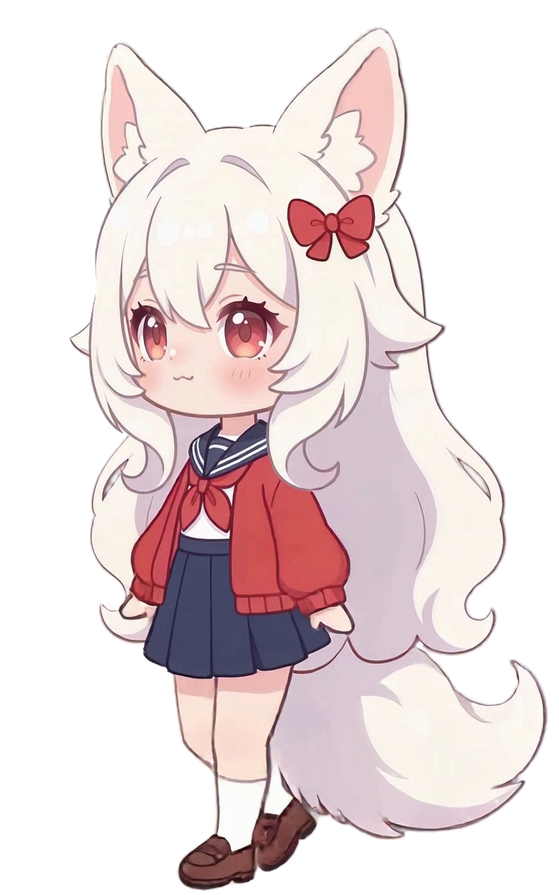
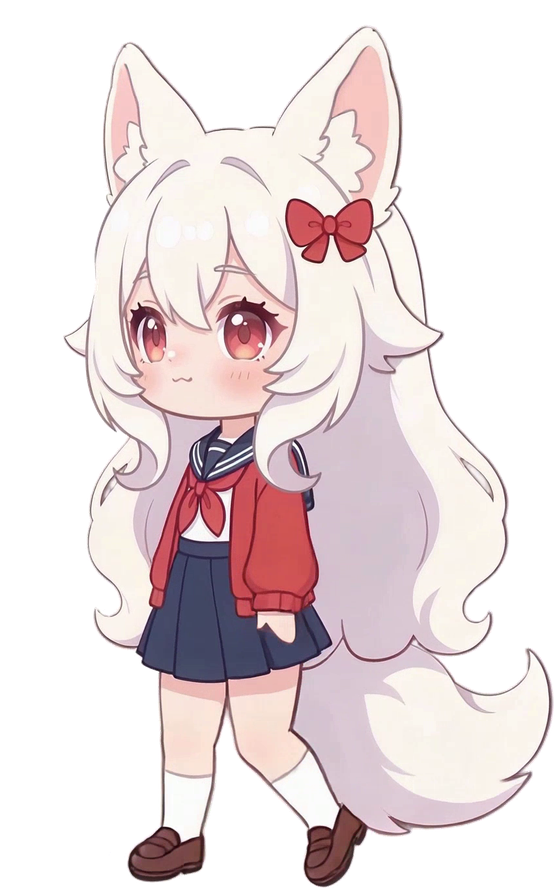
收紧walk_loop素材区间

diff --git a/scripts/build_feiling_walk_loop.py b/scripts/build_feiling_walk_loop.py
@@ -1,30 +1,13 @@
 from __future__ import annotations
 
 import json
-import math
 import shutil
 from pathlib import Path
 
 
-TARGET_FRAME_COUNT = 12
 SOURCE_SET_NAME = "selected_70_spread_fixed"
-
-
-def sample_indices(total_frames: int, target_frames: int) -> list[int]:
-    if total_frames < target_frames:
-        raise ValueError(
-            f"Not enough source frames to build walk loop: {total_frames} < {target_frames}"
-        )
-
-    step = total_frames / target_frames
-    sampled = [math.floor(index * step) for index in range(target_frames)]
-
-    if len(set(sampled)) != target_frames:
-        raise ValueError(
-            f"Sampling produced duplicate indices: total={total_frames}, target={target_frames}, sampled={sampled}"
-        )
-
-    return sampled
+WALK_LOOP_START_FRAME_1BASED = 32
+WALK_LOOP_END_FRAME_1BASED = 43
 
 
 def main() -> None:
@@ -53,7 +36,15 @@ def main() -> None:
 
     source_manifest = json.loads(source_manifest_path.read_text(encoding="utf-8"))
     source_frames = sorted(source_frames_dir.glob("*.png"))
-    sampled_indices = sample_indices(len(source_frames), TARGET_FRAME_COUNT)
+    selected_indices = list(
+        range(WALK_LOOP_START_FRAME_1BASED - 1, WALK_LOOP_END_FRAME_1BASED)
+    )
+    target_frame_count = len(selected_indices)
+
+    if selected_indices[-1] >= len(source_frames):
+        raise SystemExit(
+            f"Walk loop selection exceeds available frames: last={selected_indices[-1] + 1}, available={len(source_frames)}"
+        )
 
     target_dir.mkdir(parents=True, exist_ok=True)
     for existing in target_dir.glob("feiling_walk_loop_*.png"):
@@ -64,13 +55,14 @@ def main() -> None:
         f"source_manifest={source_manifest_path}",
         f"source_set={SOURCE_SET_NAME}",
         f"source_frame_count={len(source_frames)}",
-        f"target_frame_count={TARGET_FRAME_COUNT}",
-        "sampling_mode=uniform_spread_no_end_duplicate",
+        f"target_frame_count={target_frame_count}",
+        f"selection_range_1based={WALK_LOOP_START_FRAME_1BASED}-{WALK_LOOP_END_FRAME_1BASED}",
+        "selection_mode=contiguous_stable_walk_window",
     ]
 
     source_indices_1based = source_manifest.get("source_frame_indices_1based", [])
 
-    for output_index, source_index in enumerate(sampled_indices):
+    for output_index, source_index in enumerate(selected_indices):
         source_path = source_frames[source_index]
         out_path = target_dir / f"feiling_walk_loop_{output_index:03d}.png"
         shutil.copy2(source_path, out_path)
@@ -84,7 +76,7 @@ def main() -> None:
         manifest_lines.append(manifest_line)
 
     target_manifest_path.write_text("\n".join(manifest_lines), encoding="utf-8")
-    print(f"Built {TARGET_FRAME_COUNT} walk loop frames in {target_dir}")
+    print(f"Built {target_frame_count} walk loop frames in {target_dir}")
 
 
 if __name__ == "__main__":

diff --git a/WALK_LOOP_RUNTIME_PLAN.md b/WALK_LOOP_RUNTIME_PLAN.md
@@ -55,9 +55,12 @@
 
 - 源目录：`assets/characters/feiling/animations/video_extract_20260327/selected_70_spread_fixed/frames`
 - 源 manifest：`feiling_video_motion_bridge_spread_fixed_70_manifest.json`
-- 采样方式：`uniform_spread_no_end_duplicate`
+- 运行时正式取帧区间：`032 ~ 043`
+- 选择方式：从稳定朝向的连续中段步行动作中截取一段闭环窗口
 - 目标帧数：`12`
 - 保留统一后的画布尺寸和角色摆位，不再二次裁切
+
+这样做是因为整段均匀抽样会混入起步、回正和收步帧，循环后会出现“走几步像要停一下 / 转一下”的违和感。
 
 ## 构建脚本
 
@@ -68,6 +71,7 @@
 作用：
 
 - 从 `selected_70_spread_fixed/frames` 中均匀抽取 12 帧
+- 从 `selected_70_spread_fixed/frames` 中截取稳定步行动作窗口
 - 输出到 `animations/walk_loop`
 - 生成 `manifest.txt`
 - 在 manifest 中保留“运行时帧 -> 候选帧 -> 原视频帧”的映射

diff --git a/LEARNING_JOURNAL.md b/LEARNING_JOURNAL.md
@@ -71,6 +71,7 @@
 - 本地重新编译并启动桌宠，确认代码可正常构建运行。
 - 收紧 `追逐鼠标` 的跟随滞后区间，避免“走几步就停一下”的抽搐感。
 - 把 `walk_loop` 动画单独放慢，并避免切换时反复重置到首帧。
+- 复查 `walk_loop` 素材后，确认“整段均匀抽样”会混入起步和回正帧，已改为只取稳定步行动作窗口 `032 ~ 043` 作为正式运行时循环。
 
 ### 当前缺口
 
